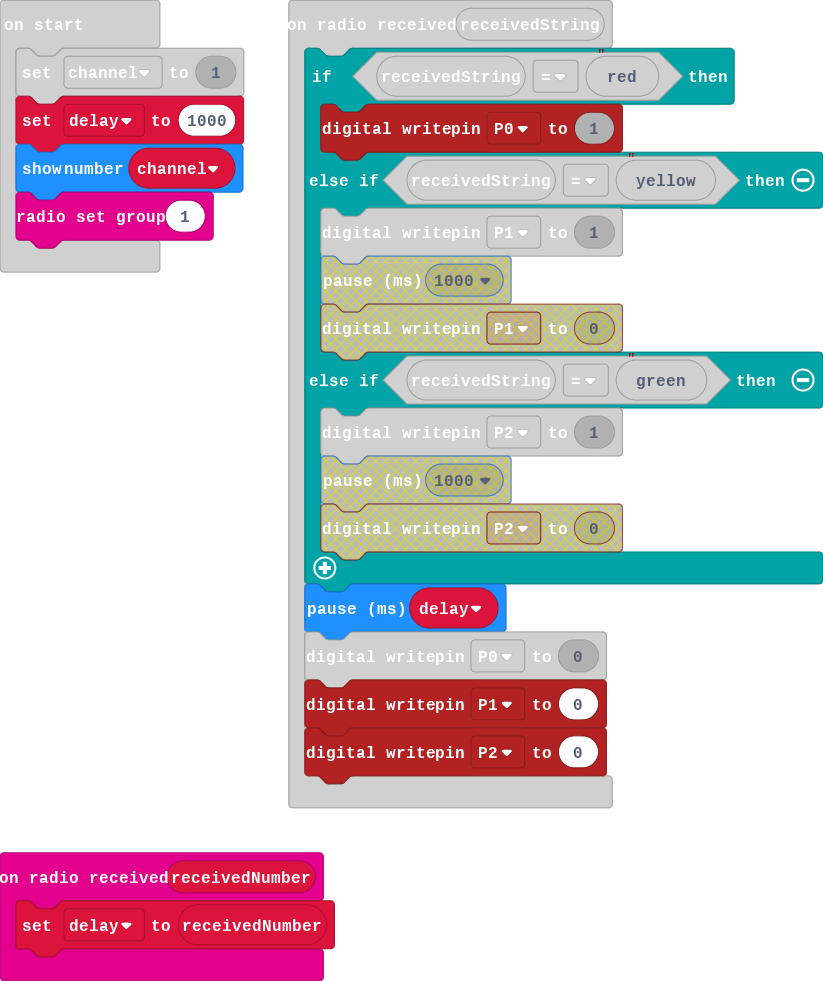
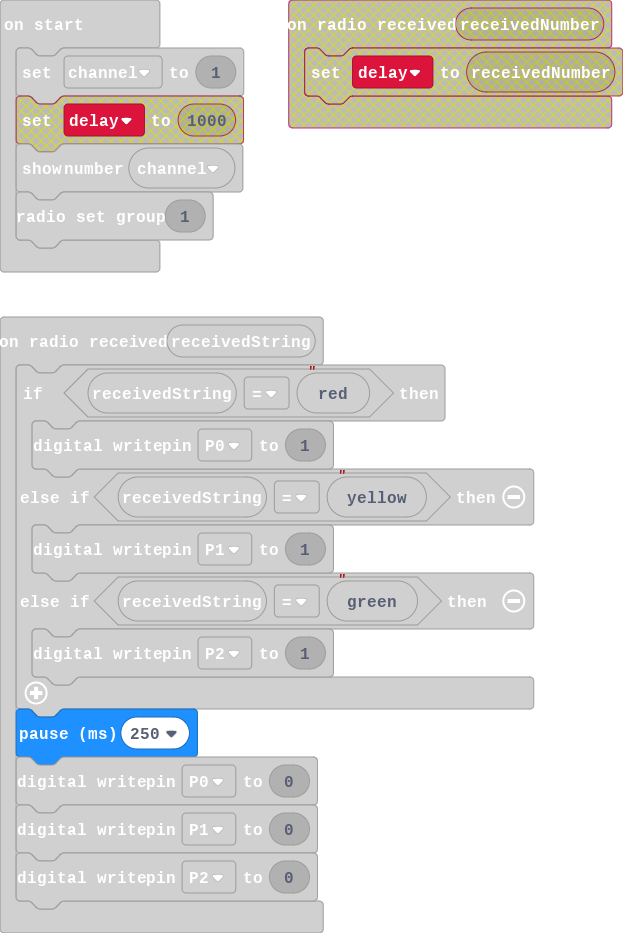
Update main.blocks, main.ts

diff --git a/main.ts b/main.ts
@@ -6,7 +6,7 @@ radio.onReceivedString(function (receivedString) {
     } else if (receivedString == "green") {
         pins.digitalWritePin(DigitalPin.P2, 1)
     }
-    basic.pause(delay)
+    basic.pause(250)
     pins.digitalWritePin(DigitalPin.P0, 0)
     pins.digitalWritePin(DigitalPin.P1, 0)
     pins.digitalWritePin(DigitalPin.P2, 0)
@@ -16,17 +16,12 @@ input.onButtonPressed(Button.B, function () {
     basic.showNumber(channel)
     radio.setGroup(channel)
 })
-radio.onReceivedNumber(function (receivedNumber) {
-    delay = receivedNumber
-})
 input.onButtonPressed(Button.A, function () {
     channel += -1
     basic.showNumber(channel)
     radio.setGroup(channel)
 })
-let delay = 0
 let channel = 0
 channel = 1
-delay = 1000
 basic.showNumber(channel)
 radio.setGroup(1)
